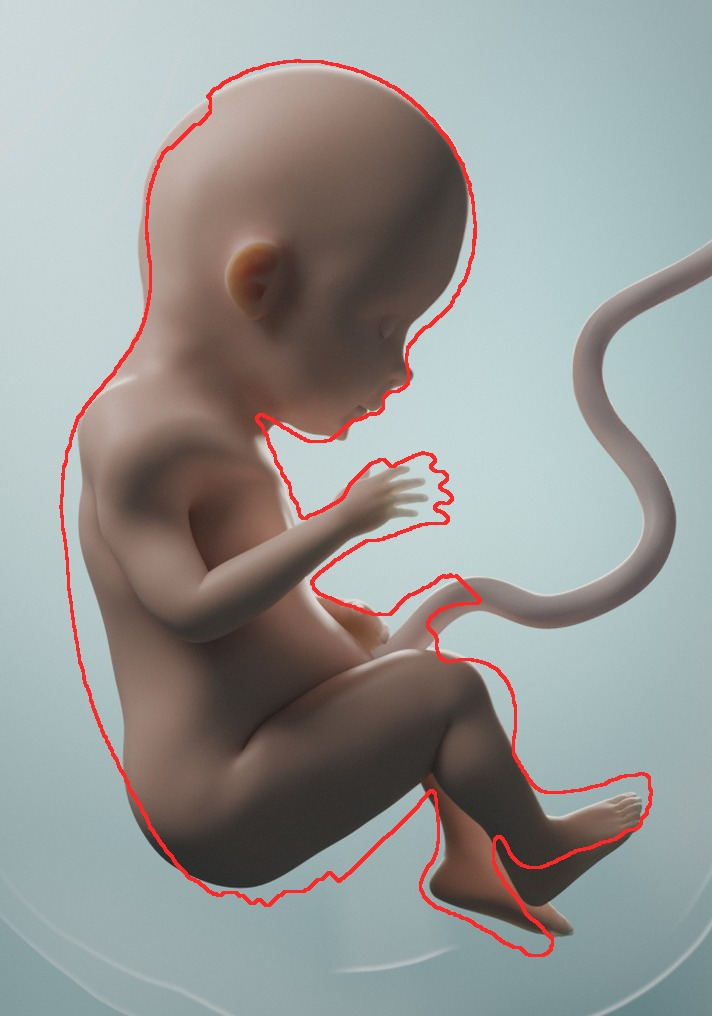
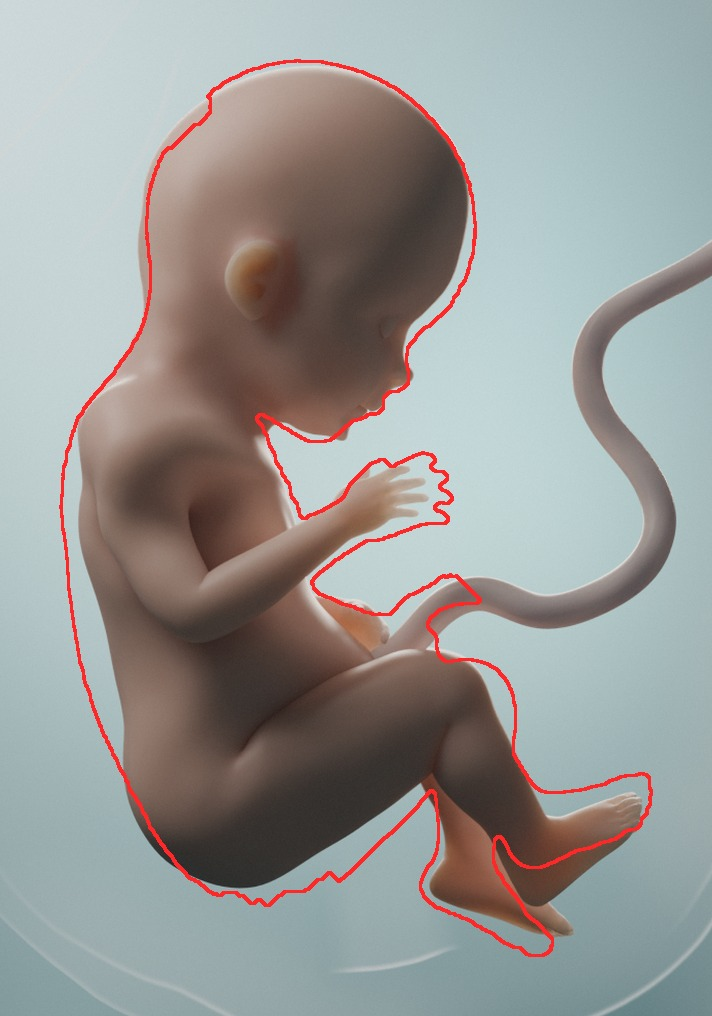
Fetal Growth Explorer: deeper, red-weighted skin scatter
The reference body has lower local contrast than ours (std 23-36 vs 36-49
levels per body part). Subsurface depth x2.5 with a red-weighted radius
softens the shading without turning hands and feet waxy; key trimmed to hold
the mean. SSIM against the reference: fetus 0.528 -> 0.539, whole frame
0.797 -> 0.804.

Claude-Session: https://claude.ai/code/session_012GPESLoAzkgxi7MKnnsx3V

diff --git a/fetal-growth-explorer/blender/scripts/fge/lookdev.py b/fetal-growth-explorer/blender/scripts/fge/lookdev.py
@@ -115,7 +115,7 @@ def make_lights(target=(0.0, 0.0, 0.02)):
     # reference's light gradient from crown to feet (measured per region on
     # the fetus interior: head/torso/legs within a few levels of the reference
     # instead of +7/+15/+34 with a distant key).
-    area_light("LGT_Key", (-0.220, -0.056, 0.287), (-0.01, 0.0, 0.08), "#FFE6D8", 3.05, 0.294, col=col)
+    area_light("LGT_Key", (-0.220, -0.056, 0.287), (-0.01, 0.0, 0.08), "#FFE6D8", 2.84, 0.294, col=col)
     # Neutral fill low from the front-right lifts the face and belly.
     area_light("LGT_Fill", (0.90, -1.00, 0.10), target, "#E2E4DF", 1.0, 1.4, col=col)
     # Soft back light straight behind: a thin environment-like edge all round,
@@ -256,8 +256,10 @@ def skin_material(name="MAT_Skin", translucency: float = 1.0, vessels: float = 1
     thin.attribute_type = "GEOMETRY"
     thin.attribute_name = "fge_thin"
     sss = nt.nodes.new("ShaderNodeMapRange")
-    sss.inputs["To Min"].default_value = 0.004 * translucency
-    sss.inputs["To Max"].default_value = 0.007 * translucency
+    # a deep scatter: the reference skin has soft, low-contrast shading (local
+    # contrast on the body matched against it; 2.5x the earlier depth)
+    sss.inputs["To Min"].default_value = 0.010 * translucency
+    sss.inputs["To Max"].default_value = 0.0175 * translucency
     nt.links.new(thin.outputs["Fac"], sss.inputs["Value"])
     nt.links.new(sss.outputs["Result"], bsdf.inputs["Subsurface Scale"])
     ear_tint = nt.nodes.new("ShaderNodeMix")
@@ -273,7 +275,7 @@ def skin_material(name="MAT_Skin", translucency: float = 1.0, vessels: float = 1
     nt.links.new(ear_tint.outputs["Result"], bsdf.inputs["Base Color"])
     rad = nt.nodes.new("ShaderNodeMix")  # redder scattering where thin: light through an ear glows red
     rad.data_type = "VECTOR"
-    rad.inputs[4].default_value = (1.0, 0.7, 0.55)  # A (vector)
+    rad.inputs[4].default_value = (1.0, 0.45, 0.3)  # A (vector): red-weighted, or deep scatter turns thin parts waxy white
     rad.inputs[5].default_value = (1.0, 0.3, 0.15)  # B (vector)
     nt.links.new(thin.outputs["Fac"], rad.inputs["Factor"])
     nt.links.new(rad.outputs[1], bsdf.inputs["Subsurface Radius"])
